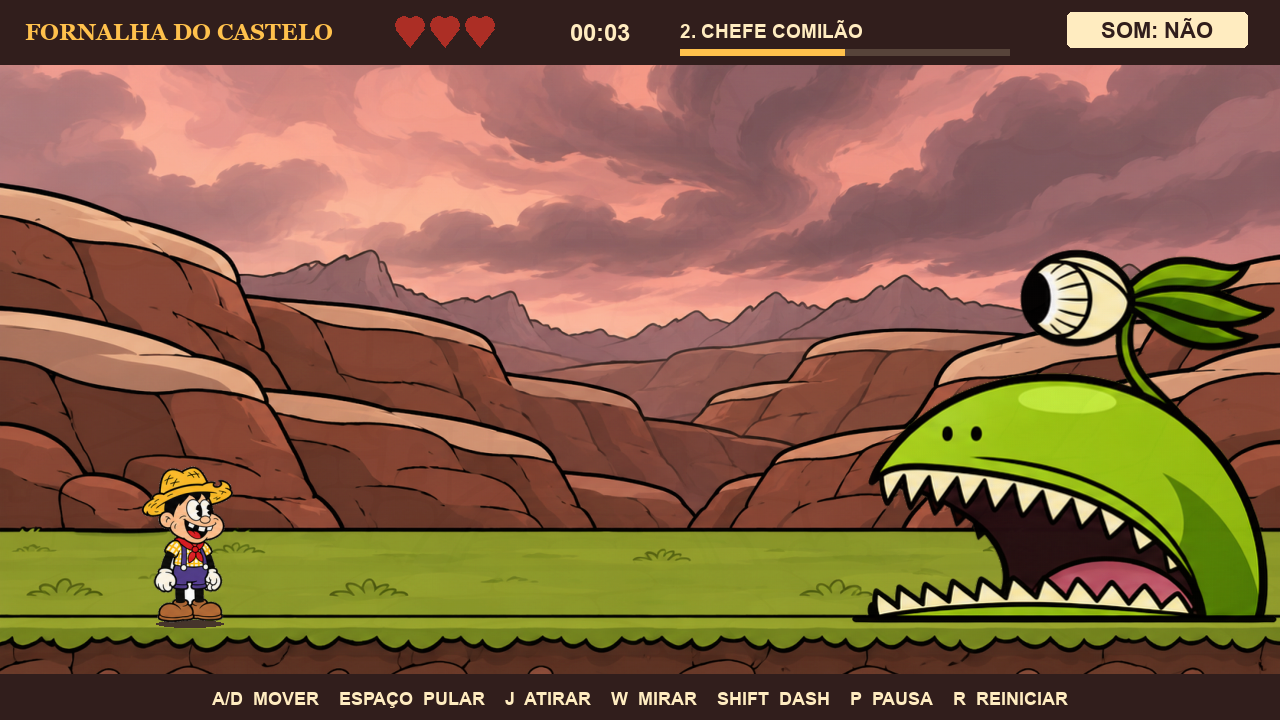
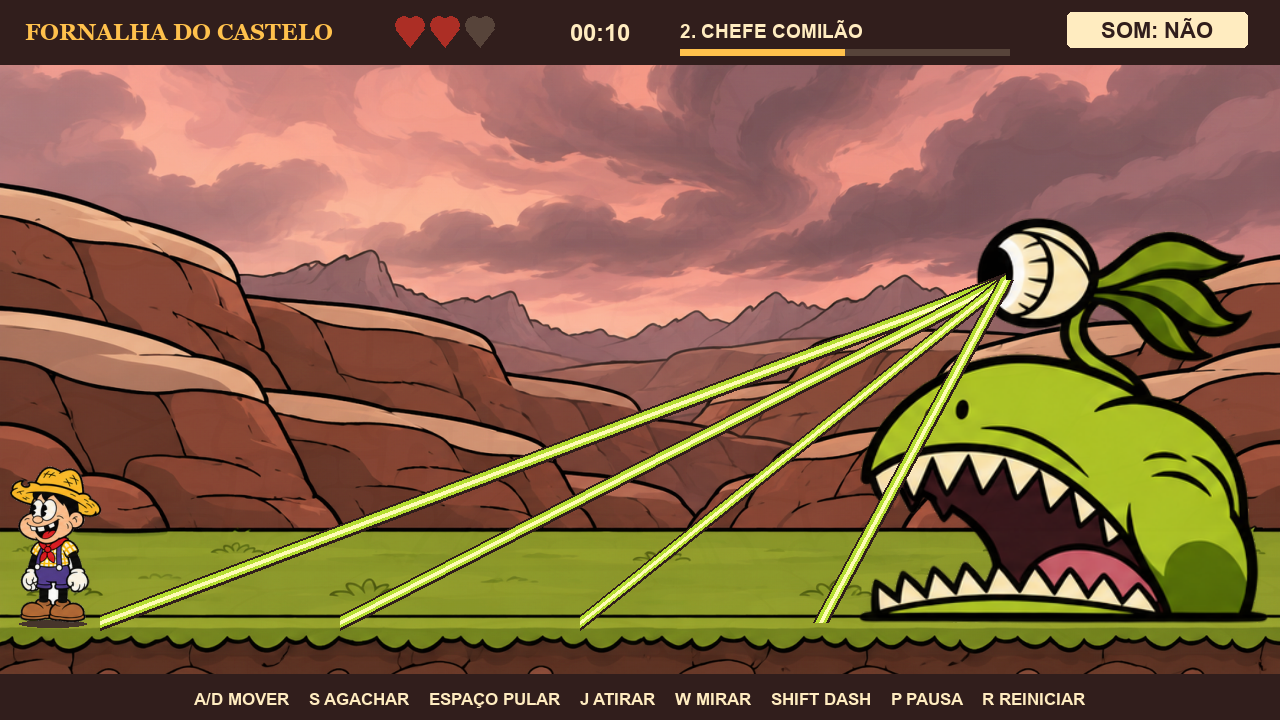
Documenta versão difícil, divisão e prévia animada
58 testes aprovados na pasta de desenvolvimento e no ZIP extraído. Inclui comparação dos parâmetros do ZIP, limites da validação, créditos e prompts das artes, tarefas por integrante e GIF capturado no jogo.

diff --git a/docs/VALIDACAO.md b/docs/VALIDACAO.md
@@ -1,29 +1,34 @@
-# Validação — Dragão e Chefe Comilão
+# Validação — perfil difícil e animações
 
-Data: 22/11/2026. Ambiente local: Windows, Python 3.12.14 e Pygame 2.6.1. Vídeo/áudio virtuais do SDL.
+Data: 22/11/2026. Ambiente local: Windows, Python 3.12.14, Pygame 2.6.1 e vídeo/áudio virtuais do SDL.
 
 ## Resultado
 
-Comando: python -m unittest discover -s tests -v
+Comando: python -m unittest discover -s tests -q
 
-**47 testes aprovados, sem falhas ou testes ignorados.** Os 36 casos anteriores continuam aprovados, com as expectativas do menu atualizadas para incluir a história. Outros 11 casos verificam a fase 2 e a passagem entre cenários.
+**58 testes aprovados**, sem falhas ou testes ignorados. São os 47 casos anteriores adaptados aos novos valores e 11 casos adicionais de dificuldade e animação.
 
-Cobertura nova: avanço somente após vitória; ausência de um terceiro chefe jogável; seis ataques sempre precedidos por aviso; direções dos raios fixadas no aviso; língua baixa causa um único dano; língua alta passa sobre jogador no chão; pulo e dash evitam a língua baixa; faixa segura dos espinhos; remoção de ataques; segunda forma; pausa; reinício na fase atual; telas; transparência das artes; separação do recorde do dragão.
+A comparação com boss_attacks.py do ZIP fornecido confirmou os **40 parâmetros de cada um dos quatro níveis do dragão**, sem diferenças. Vida do chefe: 480, como no ZIP. A portabilidade conserva os números, mas usa o loop simples do projeto; não promete equivalência numérica quadro a quadro com o outro motor.
 
-As duas lutas chegaram à vitória com 360 acertos em 30, 60 e 120 atualizações por segundo. Nesses casos foi ativada proteção prolongada somente no teste: isso verifica o fluxo, não a dificuldade para uma pessoa. O jogo normal começa com três vidas.
+## Esquivas sem proteção adicional
 
-## Verificação visual
+- Rajadas horizontais: quatro níveis × duas ordens de altura × duas posições × 30/60/120 atualizações por segundo; pulo nas baixas e agachamento nas altas, mantendo três vidas.
+- Duas bolas gigantes: níveis 3 e 4, duas posições, 30/60/120 atualizações por segundo; dois pulos separados, mantendo três vidas.
+- Comilão: combo final de língua baixa/alta/baixa em 30/60/120 atualizações por segundo; pulo/agachamento conservam três vidas. Cada golpe tem um aviso próprio de pelo menos 0,72 s.
+- Três ondas de espinhos do Comilão: quatro posições iniciais; andar para o corredor anunciado conserva três vidas.
 
-Foram renderizados e inspecionados menu, história, dragão, corpo do Comilão, aviso dos raios, língua estendida, segunda forma e vitória da fase 2. Também foram renderizados os espinhos e seus avisos. Capturas representativas estão em docs/preview.png, docs/comilao-corpo.png e docs/comilao-boca.png.
+Outros casos verificam direção fixa, volume/altura das fileiras, exclusividade da segunda bola agendada, pausa, limpeza em morte/vitória/transformação/reinício, colisão no trajeto de projétil rápido, 12 poses distintas por forma, hitbox independente da deformação e limite de 256 imagens de animação em cache. Um jogador parado perde suas três vidas no combate natural do dragão.
 
-Um roteiro adicional usou main.update_game e main.draw_screen por 180 quadros na fase 2, incluindo tiros e espinhos: média local de 15,67 ms por quadro; percentil 95 de 25,44 ms. É uma amostra local com saída de vídeo virtual, não uma garantia de desempenho em todos os computadores.
+As lutas completas dos dois chefes continuam chegando à vitória em 30/60/120 atualizações por segundo, agora com 480 acertos. Somente esses testes de fluxo usam proteção prolongada; isso não mede dificuldade humana.
 
-## Pacote ZIP
+## Verificação visual e desempenho
 
-O pacote final contém 60 arquivos. Foi extraído em uma pasta nova; os 60 conteúdos foram comparados por SHA-256 com a pasta de origem. Os 47 testes também passaram na cópia extraída.
+Foram renderizados e inspecionados o menu com identificação da versão difícil, o dragão abaixando para a rajada, as duas formas do Comilão, o alinhamento dos raios/língua, a chuva e o corredor seguro. A prévia docs/comilao-animacao.gif contém 122 quadros e 12,2 segundos de execução gravada, incluindo a transformação, sem proteção de teste. O jogador terminou essa amostra com duas vidas.
 
-## Limites e pendências
+Amostra local de update e desenho durante a captura: média de 9,35 ms; percentil 95 de 18,08 ms por quadro. Não é uma garantia de desempenho em outros computadores. As imagens transformadas e os flashes são reaproveitados pelo cache.
 
-A execução virtual não substitui jogar com teclado físico, ouvir volumes e avaliar dificuldade com pessoas. O grupo precisa testar nos três computadores e gravar o vídeo. O iniciador Windows requer Python e internet na primeira instalação. A terceira fase e o encerramento completo ainda não estão implementados.
+## Pacote e limites
 
-Os resultados acima são locais. A publicação em uma branch não significa que o jogo foi integrado à main ou que uma verificação remota tenha sido executada.
+O pacote contém 68 arquivos. O ZIP é extraído em pasta nova e todos os conteúdos são comparados por SHA-256 antes da entrega; os testes são executados também na cópia extraída.
+
+O grupo precisa jogar com teclado físico, ouvir os volumes e testar a instalação nos três computadores. A terceira fase e o encerramento ainda estão pendentes. Os resultados são locais; atualizar uma branch não significa integrar à main nem executar testes remotos.

diff --git a/docs/ARTES_COMILAO.md b/docs/ARTES_COMILAO.md
@@ -13,3 +13,15 @@ Use case: stylized-concept. Production game sprite sheet exactly 4 columns and 2
 ## vale-comilao
 
 Use case: stylized-concept. Create side-view 2D boss arena background 16:9 landscape 1536x864. Reference1 provides landscape identity: brown rocky canyon ridges, green grass, stormy dusty pinkgray cloudy sky; do NOT include either character from that screenshot. Reference2 provides game's existing hand-drawn ink outlined cartoon aesthetic with warm flat celshading. Layered sweeping rounded canyon rock walls and distant jagged ridges under swirling dusty rose thunderclouds. Clear uncluttered arena, characters will be placed separately left and right. Flat grassy platform with exact horizontal walkable TOP at86.4% imageheight (y746of864); darkearthcrosssectionbelow. Keepforegroundemptyandwide, no obstacles, no trees hidingplayer, nocharacters, no UI, no text,no watermark. Soft painterlyskybutsimpleboldinkrockcontours.
+
+## Folhas animadas — ferramenta integrada de imagens
+
+Solicitação: poses mais expressivas inspiradas em animação cartunesca de Cuphead, preservando o personagem do grupo. São 12 poses por forma, sem copiar sprites oficiais. As folhas anteriores foram preservadas como referência.
+
+### corpo-animado
+
+Use case: stylized-concept. Edit target is the supplied green Chefe Comilão sprite sheet. Create an improved production ANIMATION SHEET of this SAME character for a 2D boss game. Exactly 4 columns x3 rows, 12 square cells, 2048x1536 canvas, genuine transparent background. Identity invariant: green pear body with enormous toothy belly mouth, single cream eye on stalk with three leaf hairs, long arms and big feet, faces LEFT, no clothing or chef hat. Redraw with lively 1930s rubber-hose cartoon ink, expressive elastic organic shapes, clean slightly irregular heavy outlines, warm flat cel shading, less glossy digital lighting. 12 DIFFERENT unmistakable sequential poses: cells0-3 idle breathing/bob/blink/openeye loop; cells4-7 attack ANTICIPATION: eye bulges, cheeks inflate, body winds back, mouth winds open; cells8-9 release stretched forward mouth open wide; cells10-11 recoil/recovery settling. Limbs swing and bend fluidly. Do NOT repeat an identical pose. Each cell same registration: feet onlocaly498, mouth origin local(190,290), eye centerlocal(201,122). Keep full character within cell with empty margins, consistent silhouette proportions and direction. Mouth can open/close, body squash/stretch but root planted. Tongue tucked inside; longtongue is a separate procedural object in game. No rays, projectiles, shadows, backgrounds, words, guides, gridlines, borders or watermark. Preserve alpha.
+
+### boca-animada
+
+Use case: stylized-concept. Edit target is supplied Chefe Comilão SECOND FORM sprite sheet. Improved 12-frame ANIMATION SHEET exactly4columns x3rows equal square512cells, canvas2048x1536 genuine transparent background. Keep this SAME green giant mouth dome on the floor, facing LEFT, no arms orlegs, huge curved upperjaw, triangular ivoryteeth, pink interior tongue tucked in, one floating cream eye above with three trailing leafhairs. Draw lively 1930s rubberhose cartoon ink, expressive elastic jawshapes, clean irregularheavyblackoutlines, flat warm celshading less glossy. Distinct sequential frames: cells0-3 idle elasticbreathing and eyeblink;4-7 anticipation jawcompresses, cheeksinflate, eyelevitates, mouthopensready;8-9 explosive wideopen release with upperjawstretched then recoil;10-11 softovershoot/recovery intoidle. Clearly differentposes, noidenticalcopies. Each512cell lowerjaw plantedbaseliney480, tongueemissionpointnear(135,385), eye centernear(250,110); sameoverallsize andposition, fullcharacterwithincell margins. Eye bobs and hairs trail but staysaroundanchor. No protrudinglongtongue as that is drawnseparatelyingame. No labels, cellborders, effects, rays, spikes, castshadows, environmentorwatermark. Truealpha.

diff --git a/docs/DIFICULDADE_E_ANIMACAO.md b/docs/DIFICULDADE_E_ANIMACAO.md
@@ -1,0 +1,34 @@
+# Dificuldade e animação
+
+## Fase 1 recebida no ZIP
+
+O pacote A_Fornalha_do_Castelo_Boss_Dificil.zip usa outro motor, com dataclasses e subdivisão do tempo. Para manter a organização próxima da aula, foram portadas suas regras de ataque para Sprites, Groups, listas e dicionários do projeto atual. Nenhuma fase foi substituída por uma tela vazia.
+
+Os quatro dicionários HARD_ATTACKS em boss_attacks.py reproduzem exatamente os 40 parâmetros por nível do perfil homônimo do ZIP. Vida do dragão: 480. Três vidas, tiro a cada 1/12 segundo, velocidade do jogador 310, salto 680 e dash de 0,21 segundo foram preservados.
+
+| Parâmetro | Nível 1 | Nível 2 | Nível 3 | Nível 4 |
+| --- | --- | --- | --- | --- |
+| Velocidade normal | 440 | 490 | 550 | 610 |
+| Intervalo entre padrões | 1,95 s | 1,80 s | 1,65 s | 1,50 s |
+| Aviso normal | 0,80 s | 0,76 s | 0,72 s | 0,68 s |
+| Velocidade horizontal | 700 | 760 | 840 | 920 |
+| Fileiras horizontais | 2 | 2 | 3 | 4 |
+| Tiros por fileira | 4 | 5 | 5 | 6 |
+| Velocidade da bola gigante | 720 | 800 | 860 | 920 |
+| Bolas gigantes | 1 | 1 | 2 | 2 |
+
+O dragão abaixa a boca até a altura anunciada. Fileiras baixas pedem pulo; altas pedem agachamento. A boca se move gradualmente entre as fileiras. O sopro, as bolas gigantes e as fileiras não se misturam com outros padrões; uma segunda bola agendada continua bloqueando novos padrões. A chuva mantém a faixa segura entre ondas. O limite é de 72 projéteis simultâneos.
+
+O projeto continua com uma atualização por quadro, em vez do motor com subpassos do ZIP. Para que uma bola rápida não atravesse o jogador entre dois quadros, a colisão verifica também a linha entre a posição anterior e a atual, com Rect.clipline. A adaptação não promete equivalência numérica quadro a quadro com o motor do ZIP.
+
+## Comilão reforçado
+
+A vida passa de 360 para 480, acompanhando a duração da primeira luta. Os avisos diminuem de 1,0 s para 0,78 s ao longo da luta; os intervalos, de 2,55 s para 1,95 s. Os combos acrescentam um novo aviso de pelo menos 0,72 s antes de cada golpe. A língua estica em 0,19 s; os raios passam de três para até cinco. A segunda forma dispara duas ou três ondas de espinhos a até 500 pixels/s, preservando o mesmo corredor anunciado. Aumentar a pressão, e não apenas a vida, foi o objetivo.
+
+## Apresentação cartunesca
+
+As duas folhas novas têm 4 colunas × 3 linhas, com 12 poses distintas por forma. A animação percorre repouso/piscada, preparação, disparo e recuperação em ritmos diferentes. A seleção está em Comilao.refresh_image. animation.py guarda versões comprimidas e alongadas das poses do jogador/dragão e flashes de impacto. As caixas de colisão não mudam devido à deformação visual. O desenho usa rastros no dash, estrelas nos impactos e nuvem na transformação.
+
+Imagens novas geradas com a ferramenta integrada de imagens do Codex/ChatGPT a partir das artes anteriores, por solicitação do grupo. Prompts em ARTES_COMILAO.md. Não são animações oficiais de Cuphead. A referência está nos princípios de preparação, exagero e recuperação do movimento.
+
+Testem o conforto da dificuldade com pessoas e teclado físico antes de entregar. Ajustes de dificuldade ficam com Moisés; arte/tempo visual com Davi; fluxo e integração com João Marcelo.

diff --git a/docs/ARQUITETURA.md b/docs/ARQUITETURA.md
@@ -35,3 +35,9 @@ Os sons são chamados diretamente por play_sound(assets, nome). audio.py carrega
 A arena é 1280 x 720, com chão em y=622. x/y do jogador indicam seus pés. Velocidades são pixels por segundo; os tempos são segundos. Mudanças em nomes públicos, controles, constantes e formatos dos avisos devem ser combinadas entre os responsáveis.
 
 Moisés altera regras e caixas; Davi altera imagem, som e escolha de animações; João altera janelas, entradas e telas. Não reescrever a parte do colega para integrar uma tarefa sem conversar e revisar.
+
+## Perfil difícil e animação
+
+boss_attacks.py contém os 40 parâmetros por nível do perfil recebido em dicionários. attacks.py prepara, avisa e dispara dez famílias de ataques. Boss.move_mouth anima a altura das fileiras; clear_attacks limpa também a pose e todas as sequências pendentes. Fire.previous_center permite conferir o trajeto de projéteis rápidos por Rect.clipline. comilao.py usa a mesma lista scheduled para ondas de espinhos e avisos de golpes seguintes.
+
+animation.py escolhe deformações visuais discretas e guarda imagens reaproveitáveis em assets["animated"], limitado a 256 entradas. Não há alteração da hitbox por efeito visual. As folhas do Comilão têm 12 quadros. O recorde salvo inclui ruleset para separar a versão difícil da anterior.

diff --git a/docs/GUIA_DA_AULA.md b/docs/GUIA_DA_AULA.md
@@ -85,3 +85,7 @@ Davi: como uma folha vira uma lista de quadros? Como o programa escolhe o quadro
 João Marcelo: qual é a ordem do loop? Como um clique é convertido para a arena? O que pausa o jogo e onde o recorde é salvo?
 
 Todos devem conseguir acompanhar o caminho inteiro de uma ação, mesmo quando o arquivo principal é responsabilidade de outro colega.
+
+## Arquivos acrescentados no perfil difícil
+
+boss_attacks.py usa tuplas e dicionários para os números do ZIP, sem dataclasses. animation.py usa Surface e transform.smoothscale para poses elásticas e guarda as imagens prontas em um dicionário limitado. O loop continua fazendo uma atualização por quadro. Na bola rápida, Rect.clipline verifica o caminho entre a posição anterior e a atual. A divisão em responsabilidades está também no arquivo DIVISAO_DA_EQUIPE.md, na raiz.

diff --git a/docs/DIVISAO_E_PRAZOS.md b/docs/DIVISAO_E_PRAZOS.md
@@ -15,7 +15,7 @@ Revisor: Davi. Alterações de hitbox ou posição devem ser combinadas com quem
 
 ## Davi — artes, animação e som
 
-Arquivos: assets.py, scene.py, audio.py, assets/player/, demais imagens e assets/sounds/.
+Arquivos: assets.py, animation.py, scene.py, audio.py, assets/player/, demais imagens e assets/sounds/.
 
 1. Estudar load_assets, load_sheet, player_pose e o desenho da interface.
 2. Conferir animações, leitura dos avisos, alinhamento do tiro e volume dos WAV.
